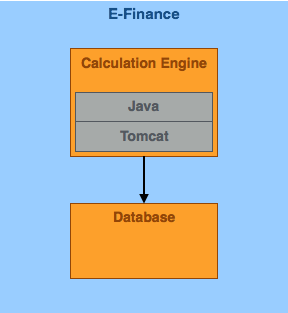
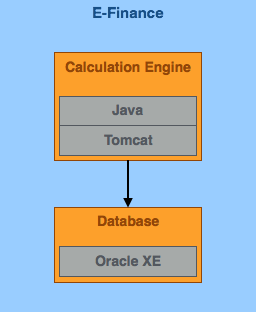
README - add orchestration commands

Changed region(s): [[0.1875, 0.1442, 0.8125, 0.9231], [0.0, 0.0, 1.0, 0.0577]]

diff --git a/README.md b/README.md
@@ -32,20 +32,61 @@ In this use case the database is kept between the subsequent deployments, becaus
  
 Therefore, we will create a data volume container the first time, when the environment is set up (step 0.1). During deployment we will pass this container's volume to a database container (step 3.1) and link that container in its turn to a data migration container (step 3.2) in order to execute the migration scripts on it. After the tests only the data volume container will remain.
 
+#### Docker commands
+
+Step 1 - See the following scripts to build the docker images:
+- Calculation Engine:
+    - [docker_build.sh](https://github.com/BMC-RLM/ef_java_calculation_engine/blob/master/docker/ef_java_calculation_engine/docker_build.sh)
+- Database - init:
+    - [docker_build.sh](https://github.com/BMC-RLM/ef_java_calculation_engine/blob/master/docker/ef_oracle_database-init/docker_build.sh)
+- Database - migrate
+    - [docker_build.sh](https://github.com/BMC-RLM/ef_java_calculation_engine/blob/master/docker/ef_oracle_database-migrate/docker_build.sh)
+
+```bash
+echo "Step 2.1 - Run database container with fresh data"
+docker run -d --name ef_oracle_database_${ENVIRONMENT} -p ${DB_PORT}:1521 bmcrlm/ef_oracle_database-init:${COMPONENT_VERSION}
+
+echo "Step 2.2 - Run application container"
+docker run -d --name ef_java_calculation_engine_${ENVIRONMENT} -p ${APP_PORT}:8080 --link ef_oracle_database_${ENVIRONMENT}:db -e DB_USERNAME=${DB_USERNAME} -e DB_PASSWORD=${DB_PASSWORD} -e TOMCAT_ADMIN_PASSWORD=${TOMCAT_ADMIN_PASSWORD} bmcrlm/ef_java_calculation_engine:${COMPONENT_VERSION}
+
+echo "Step 2.3 - Execute tests (the application is available on $HOSTNAME:$APP_PORT/ef_java_calculation_engine)"
+
+read -p "Press a key to stop the application" KEY
+
+echo "Step 2.4 - Stop and remove the application container"
+docker rm -f ef_java_calculation_engine_${ENVIRONMENT}
+
+echo "Step 2.5 - Stop and remove the database container"
+docker rm -f ef_oracle_database_${ENVIRONMENT}
+```
+
 ### 3] the "database server upgrade" use case (e.g. migrate Oracle 11g to 12g)
 
 The data volume container as explained in the previous use case only contains the data, not the database product itself, i.e. the logic. When the time comes to upgrade the database product we can simply (well, nothing is "simple" in Oracle land if you're not a fully certified Oracle DBA) pass the data volume container to the new version of the database container.
 
-### Docker commands
+#### Docker commands
 
-See the following scripts for the exact docker commands:
-- Calculation Engine:
-    - [docker_build.sh](https://github.com/BMC-RLM/ef_java_calculation_engine/blob/master/docker/ef_java_calculation_engine/docker_build.sh)
-    - [docker_run.sh](https://github.com/BMC-RLM/ef_java_calculation_engine/blob/master/docker/ef_java_calculation_engine/docker_run.sh)
-- Database - init:
-    - [docker_build.sh](https://github.com/BMC-RLM/ef_java_calculation_engine/blob/master/docker/ef_oracle_database-init/docker_build.sh)
-    - [docker_run.sh](https://github.com/BMC-RLM/ef_java_calculation_engine/blob/master/docker/ef_oracle_database-init/docker_run.sh)
-- Database - migrate
-    - [docker_build.sh](https://github.com/BMC-RLM/ef_java_calculation_engine/blob/master/docker/ef_oracle_database-migrate/docker_build.sh)
-    - [docker_run.sh](https://github.com/BMC-RLM/ef_java_calculation_engine/blob/master/docker/ef_oracle_database-migrate/docker_run.sh)
+```bash
+echo "Step 0.1 (first time only) - Create data volume container with fresh data"
+docker create --name ef_oracle_data_${ENVIRONMENT} -v /u01/app/oracle/admin -v /u01/app/oracle/diag -v /u01/app/oracle/fast_recovery_area -v /u01/app/oracle/oradata -v /u01/app/oracle/oradiag_oracle bmcrlm/ef_oracle_database-init:${COMPONENT_VERSION}
+
+echo "Step 2.1 - Run database container from data volume"
+docker run -d --name ef_oracle_database_${ENVIRONMENT} --volumes-from ef_oracle_data_${ENVIRONMENT} -p ${DB_PORT}:1521 wnameless/oracle-xe-11g
+
+echo "Step 2.2 - Migrate database"
+docker run --rm --link ef_oracle_database_${ENVIRONMENT}:db -e DB_USERNAME=${DB_USERNAME} -e DB_PASSWORD=${DB_PASSWORD} bmcrlm/ef_oracle_database-migrate:${COMPONENT_VERSION}
+
+echo "Step 2.3 - Run application container"
+docker run -d --name ef_java_calculation_engine_${ENVIRONMENT} -p ${APP_PORT}:8080 --link ef_oracle_database_${ENVIRONMENT}:db -e DB_USERNAME=${DB_USERNAME} -e DB_PASSWORD=${DB_PASSWORD} -e TOMCAT_ADMIN_PASSWORD=${TOMCAT_ADMIN_PASSWORD} bmcrlm/ef_java_calculation_engine:${COMPONENT_VERSION}
+
+echo "Step 2.4 - Execute tests (the application is available on $HOSTNAME:$APP_PORT/ef_java_calculation_engine)"
+
+read -p "Press a key to stop the application" KEY
+
+echo "Step 2.5 - Stop and remove the application container"
+docker rm -f ef_java_calculation_engine_${ENVIRONMENT}
+
+echo "Step 2.6 - Stop and remove the database container"
+docker rm -f ef_oracle_database_${ENVIRONMENT}
+```
 
